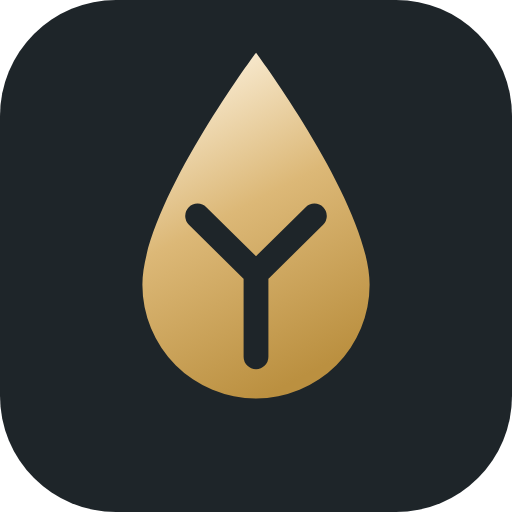
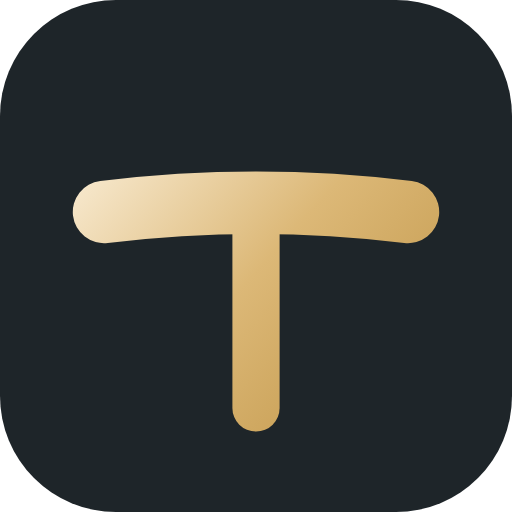
图标换图：从雨滴改为「T 型路口」
雨滴只说明「及时雨」这个 ID，说不出「人生重开」。改用横粗竖细的丁字路口：
横是走到 18 岁那条看得见的直路，竖是走进去的支路；
T 同时是 TimelyRain 的首字母，T-junction 就是丁字路口——一个形状两个意思。

- make-icons.mjs 抽出 MARKS.T / MARKS.Y 两套几何，改 MARK 一行切换
- 修 gradientUnits 坑：objectBoundingBox 在零宽竖笔上退化为空，整笔不渲染
- Y 岔路作为备选方案保留

Changed region(s): [[0.125, 0.0938, 0.875, 0.8438]]

diff --git a/图标设计说明.html b/图标设计说明.html
@@ -24,11 +24,10 @@
   .wrap { max-width: 1000px; margin: 0 auto; }
   .kicker { font-size: 11px; letter-spacing: 3px; color: var(--ink3); text-transform: uppercase; margin: 0 0 10px; }
   h1 { font-size: 27px; font-weight: 500; letter-spacing: 0.5px; margin: 0 0 8px; }
-  .lede { color: var(--ink2); font-size: 14px; margin: 0 0 40px; max-width: 620px; }
+  .lede { color: var(--ink2); font-size: 14px; margin: 0 0 40px; max-width: 640px; }
 
-  .hero { display: grid; grid-template-columns: 300px 1fr; gap: 40px; align-items: start; margin-bottom: 52px; }
+  .hero { display: grid; grid-template-columns: 300px 1fr; gap: 44px; align-items: start; margin-bottom: 48px; }
   @media (max-width: 760px) { .hero { grid-template-columns: 1fr; gap: 26px; } body { padding: 36px 20px 64px; } }
-
   .stage {
     background: linear-gradient(160deg, #f4efe4, #eae4d6);
     border-radius: 22px; padding: 34px; display: grid; place-items: center;
@@ -49,6 +48,18 @@
   h2 { font-size: 13px; letter-spacing: 2.5px; color: var(--ink3); font-weight: 500; margin: 0 0 18px; }
   section { margin-bottom: 50px; }
 
+  .ab { display: grid; grid-template-columns: 1fr 1fr; gap: 20px; }
+  @media (max-width: 720px) { .ab { grid-template-columns: 1fr; } }
+  .ab-card { background: var(--panel); border: 0.5px solid var(--line); border-radius: 18px; padding: 20px; }
+  .ab-card.pick { border-color: rgba(195,154,75,.45); box-shadow: 0 0 0 3px rgba(195,154,75,.07); }
+  .ab-top { display: flex; align-items: center; gap: 16px; margin-bottom: 14px; }
+  .ab-top svg, .ab-top img { width: 84px; height: 84px; border-radius: 20px; flex: 0 0 auto; }
+  .ab-title { font-size: 14.5px; font-weight: 500; }
+  .ab-sub { font-size: 11.5px; color: var(--ink3); letter-spacing: 0.5px; margin-top: 2px; }
+  .badge { display: inline-block; font-size: 10px; letter-spacing: 1px; color: var(--gold);
+    background: var(--gold-soft); border: 0.5px solid rgba(195,154,75,.32); border-radius: 999px; padding: 1px 8px; margin-left: 6px; vertical-align: 2px; }
+  .ab-card p { margin: 0; font-size: 13px; color: var(--ink2); line-height: 1.8; }
+
   .sizes { display: flex; align-items: flex-end; gap: 26px; flex-wrap: wrap; background: var(--panel);
     border: 0.5px solid var(--line); border-radius: 18px; padding: 26px 30px; }
   .sz { text-align: center; }
@@ -59,7 +70,6 @@
   .scene { background: var(--panel); border: 0.5px solid var(--line); border-radius: 18px; padding: 18px; }
   .scene > .cap { font-size: 11.5px; color: var(--ink3); letter-spacing: 1px; margin-bottom: 14px; }
 
-  /* Chrome 标签页 */
   .chrome { background: #dee1e6; border-radius: 10px 10px 0 0; padding: 8px 8px 0; display: flex; gap: 4px; }
   .tab { display: flex; align-items: center; gap: 8px; background: #fff; border-radius: 8px 8px 0 0;
     padding: 7px 12px; font-size: 11.5px; color: #3c4043; max-width: 190px; }
@@ -69,21 +79,19 @@
   .tabidle img { width: 13px; height: 13px; border-radius: 3px; }
   .chrome-bar { background: #fff; border-radius: 0 0 10px 10px; height: 26px; }
 
-  /* 书签栏 */
   .bm { background: #fff; border-radius: 10px; padding: 9px 12px; display: flex; align-items: center; gap: 16px;
     font-size: 11.5px; color: #3c4043; border: 0.5px solid #e2e5e9; }
   .bm span { display: flex; align-items: center; gap: 6px; }
   .bm img { width: 14px; height: 14px; border-radius: 3px; }
+  .bm .ph { width: 14px; height: 14px; border-radius: 3px; background: #c9cdd2; display: inline-block; }
 
-  /* iOS 主屏 */
   .spring { background: linear-gradient(165deg, #cfd9e2, #e7e2d6); border-radius: 14px; padding: 16px 14px; }
   .appgrid { display: grid; grid-template-columns: repeat(4, 1fr); gap: 12px 10px; }
   .app { text-align: center; }
   .app img { width: 44px; height: 44px; border-radius: 10px; box-shadow: 0 3px 8px rgba(0,0,0,.14); }
   .app .ph { width: 44px; height: 44px; border-radius: 10px; background: rgba(255,255,255,.55);
     box-shadow: inset 0 0 0 1px rgba(255,255,255,.7); margin: 0 auto; }
-  .bm .ph { width: 14px; height: 14px; border-radius: 3px; background: #c9cdd2; }
-  .app b { display: block; font-size: 8.5px; font-weight: 400; color: #2c3136; margin-top: 4px; letter-spacing: 0; }
+  .app b { display: block; font-size: 8.5px; font-weight: 400; color: #2c3136; margin-top: 4px; }
 
   .android { display: grid; place-items: center; background: linear-gradient(165deg,#dfe6ea,#efe9dc); border-radius: 14px; padding: 18px; }
   .android .circ { width: 96px; height: 96px; border-radius: 50%; overflow: hidden; box-shadow: 0 6px 16px rgba(0,0,0,.15); }
@@ -106,43 +114,78 @@
   .sw span { font-family: ui-monospace, monospace; font-size: 10.5px; color: var(--ink3); }
 
   .foot { margin-top: 44px; font-size: 11.5px; color: var(--ink3); }
+  .foot code { font-family: ui-monospace, monospace; background: #f2f6f8; padding: 1.5px 5px; border-radius: 4px; color: var(--brand); }
 </style>
 </head>
 <body>
 <svg width="0" height="0" style="position:absolute" aria-hidden="true"><defs>
-  <linearGradient id="drop" x1="0.18" y1="0" x2="0.52" y2="1">
-    <stop offset="0" stop-color="#fdf3e0"/><stop offset=".48" stop-color="#dcb877"/><stop offset="1" stop-color="#bb9040"/>
+  <linearGradient id="mark" gradientUnits="userSpaceOnUse" x1="10" y1="14" x2="54" y2="54">
+    <stop offset="0" stop-color="#fdf3e0"/><stop offset=".5" stop-color="#dcb877"/><stop offset="1" stop-color="#bf9445"/>
   </linearGradient>
-  <symbol id="mark" viewBox="0 0 64 64">
+  <symbol id="yMark" viewBox="0 0 64 64">
     <rect width="64" height="64" rx="14.5" fill="#1e2529"/>
-    <path d="M32 6.6c0 0 14.2 19 14.2 29a14.2 14.2 0 0 1-28.4 0c0-10 14.2-29 14.2-29Z" fill="url(#drop)"/>
-    <path d="M32 44.6V34.2M32 34.2 24.7 27M32 34.2 39.3 27" fill="none" stroke="#1e2529"
-      stroke-width="3.1" stroke-linecap="round" stroke-linejoin="round"/>
+    <g fill="none" stroke="url(#mark)" stroke-width="7" stroke-linecap="round" stroke-linejoin="round">
+      <path d="M32 52V35.5"/><path d="M32 35.5 22.8 17.5"/><path d="M32 35.5 41.2 19"/>
+    </g>
   </symbol>
 </defs></svg>
 
 <div class="wrap">
   <p class="kicker">Favicon / App Icon</p>
-  <h1>一滴雨里，一条岔路</h1>
-  <p class="lede">「及时雨」是雨，「人生重开」是岔路。把两件事压进一个 16×16 还认得出的形状里：一滴晨光色的雨，落下来时分成两条枝。</p>
+  <h1>一条大路，一条支路</h1>
+  <p class="lede">没画雨，也没画人物。画的是一个路口——游戏第一屏就是「18 岁那个岔路口」。而 T 这个形状，恰好也是 TimelyRain 的首字母；英文里 T-junction 就是丁字路口。</p>
 
   <div class="hero">
     <div class="stage"><img src="./public/icon-512.png" alt="图标 512px" /></div>
     <div class="notes">
       <div class="note"><div class="num">01</div><div>
-        <b>雨滴 = 及时雨</b>
-        <p>IP 是「及时雨」，符号就得是雨。滴形用了 14.2 的圆角半径撑出饱满的底，尖端收得比标准水滴更瘦，避免读成血滴或地图定位针。</p>
+        <b>横：那条大路</b>
+        <p>一条粗笔（7.8）横贯画面，中段微微起伏——不是尺子画的直线，是一条真的路。它代表走到 18 岁时那条看得见的直路。</p>
       </div></div>
       <div class="note"><div class="num">02</div><div>
-        <b>Y 形 = 人生的岔路</b>
-        <p>主干从滴底向上，在三分之一处分开两支——正是游戏里「18 岁那个岔路口」的样子。三笔都是圆头，读起来是树，不是剪刀。</p>
+        <b>竖：走进去的支路</b>
+        <p>明显更细（5.9），从横线下方垂直延伸出去。两条笔画的粗细差就是主次——路口的意义正在于「你走了哪条，哪条留在身后」。</p>
       </div></div>
       <div class="note"><div class="num">03</div><div>
-        <b>墨 + 晨光金 = 站点自己的色</b>
-        <p>底色取自正文色 <code>#1e2529</code>，雨滴是 <code>#fdf3e0 → #bb9040</code> 的三段渐变，和 h1 晨光、拼图渐变同一套。深底让它在浅色标签栏里先被看见，金滴在深色标签栏里也亮得住。</p>
+        <b>墨底 + 晨光金，和站点同一套色</b>
+        <p>底取正文色 <code>#1e2529</code>，笔画是 <code>#fdf3e0 → #bf9445</code> 的三段渐变，与 h1 晨光、拼图渐变同源。深底在浅色标签栏先被看见，金线在深色标签栏也亮得住。</p>
       </div></div>
     </div>
   </div>
+
+  <section>
+    <h2>为什么不再用雨滴</h2>
+    <p style="margin:-6px 0 18px;color:#5d6a72;font-size:13.5px;max-width:680px">
+      雨滴只能说明「及时雨」这个 ID，说不出「人生重开」这件事。而这个游戏的一切都从路口开始：18 岁、高考结束、四条岔路。用路口做图标，等于把游戏的第一屏压缩成了一个符号。T 又刚好是 IP 的首字母——一个形状，两个意思。
+    </p>
+  </section>
+
+  <section>
+    <h2>两个方案（B 是备选）</h2>
+    <div class="ab">
+      <div class="ab-card pick">
+        <div class="ab-top">
+          <img src="./public/icon-512.png" alt="" />
+          <div>
+            <div class="ab-title">A · T 型路口<span class="badge">已采用</span></div>
+            <div class="ab-sub">IP 首字母 + 丁字路口</div>
+          </div>
+        </div>
+        <p>横粗竖细，主次分明。既读得出「T」（TimelyRain），也读得出「一个路口」。两件事共用一笔，是这套方案最值钱的地方。</p>
+      </div>
+      <div class="ab-card">
+        <div class="ab-top">
+          <svg><use href="#yMark"/></svg>
+          <div>
+            <div class="ab-title">B · Y 岔路</div>
+            <div class="ab-sub">最直白的「选择」</div>
+          </div>
+        </div>
+        <p>一眼就是分岔，不需要解释。两枝角度略微不对称——总有一条是你没走的。缺点是它读起来还是更像一个字母 Y，和 IP 没关系。</p>
+      </div>
+    </div>
+    <p style="margin:14px 0 0;font-size:12.5px;color:#9aa4aa">换 B：把 <code style="font-family:ui-monospace,monospace">tools/make-icons.mjs</code> 里的 <code style="font-family:ui-monospace,monospace">MARK</code> 改成 <code style="font-family:ui-monospace,monospace">'Y'</code>，跑一次就重出全套。</p>
+  </section>
 
   <section>
     <h2>各尺寸实际效果</h2>
@@ -151,9 +194,9 @@
       <div class="sz"><img src="./public/icon-192.png" width="64" height="64" /><span>192</span></div>
       <div class="sz"><img src="./public/icon-180.png" width="48" height="48" /><span>180</span></div>
       <div class="sz"><img src="./public/icon-32.png" width="32" height="32" /><span>32</span></div>
-      <div class="sz"><img src="./public/icon-32.png" width="16" height="16" style="image-rendering:auto" /><span>16</span></div>
+      <div class="sz"><img src="./public/icon-32.png" width="16" height="16" /><span>16</span></div>
       <div class="sz" style="margin-left:auto;max-width:330px;text-align:left;color:#5d6a72;font-size:12.5px">
-        16px 是浏览器标签页的真实尺寸。这里刻意只保留「滴形 + 一级分叉」——试过两级树枝，16px 下会糊成一团墨点。
+        16px 是浏览器标签页的真实尺寸。两条笔画的粗细差在这里只剩半个像素，但「一横一竖」的骨架仍然成立——这正是当初否掉细线方案（雨滴溅开、两级树枝）的原因。
       </div>
     </div>
   </section>
@@ -174,8 +217,8 @@
         <div class="cap">书签栏</div>
         <div class="bm">
           <span><img src="./public/icon-32.png" alt="" />人生重开</span>
-          <span><i class="ph" style="width:14px;height:14px;border-radius:3px"></i>GitHub</span>
-          <span><i class="ph" style="width:14px;height:14px;border-radius:3px"></i>笔记</span>
+          <span><i class="ph"></i>GitHub</span>
+          <span><i class="ph"></i>笔记</span>
         </div>
         <div style="height:26px"></div>
       </div>
@@ -205,9 +248,9 @@
     <h2>配色</h2>
     <div class="swatches">
       <div class="sw"><i style="background:#1e2529"></i><div><b>墨底</b><span>#1e2529</span></div></div>
-      <div class="sw"><i style="background:#fdf3e0"></i><div><b>雨滴高光</b><span>#fdf3e0</span></div></div>
+      <div class="sw"><i style="background:#fdf3e0"></i><div><b>笔画高光</b><span>#fdf3e0</span></div></div>
       <div class="sw"><i style="background:#dcb877"></i><div><b>晨光金</b><span>#dcb877</span></div></div>
-      <div class="sw"><i style="background:#bb9040"></i><div><b>雨滴暗部</b><span>#bb9040</span></div></div>
+      <div class="sw"><i style="background:#bf9445"></i><div><b>笔画暗部</b><span>#bf9445</span></div></div>
     </div>
   </section>
 
@@ -227,7 +270,7 @@
     </table>
   </section>
 
-  <p class="foot">改色重出全套：<code style="font-family:ui-monospace,monospace">node tools/make-icons.mjs</code> —— 只需改脚本顶部 PALETTE 四个值。</p>
+  <p class="foot">改色或换图形重出全套：<code>node tools/make-icons.mjs</code> —— 顶部 PALETTE 改四个色值，MARK 改 <code>'T'</code> / <code>'Y'</code>。</p>
 </div>
 </body>
 </html>

diff --git a/开发需求文档.md b/开发需求文档.md
@@ -5,9 +5,9 @@
 | 产品名称 | 及时雨 · 人生重开（HowToLiveBetter: Life Restart） |
 | 命名定稿 | 主名「及时雨 · 人生重开」，副名「人生重开模拟器」，出品行「TR及时雨 · AI Timely Rain」。取自「好雨知时节，当春乃发生」——循证建议如及时雨，落在恰当时机；名字不露「雨」字，雨意全在 |
 | 参赛项目 | WorkBuddy「1024 造物挑战」程序员节应用创作大赛 |
-| 文档版本 | v2.4 |
-| 日期 | 2026-10-22（v2.4 更新于 2026-10-23） |
-| 状态 | 已定稿 v2.4（新增品牌图标体系 favicon / PWA / iOS；见 §3.2 F25） |
+| 文档版本 | v2.5 |
+| 日期 | 2026-10-22（v2.5 更新于 2026-10-23） |
+| 状态 | 已定稿 v2.5（品牌图标改为「T 型路口」；见 §3.2 F25） |
 | 产品品牌 | TR及时雨 · AI Timely Rain（个人 IP 融入开局主视觉/结算/页脚三处） |
 | 开发窗口 | 2026-10-22 ～ 2026-11-01（10 天，11 月 1 日 23:59 截稿） |
 | 内容底料 | 《高性价比人生指南》（CC BY 4.0，可改编商用，须署名+附许可证链接+注明修改） |
@@ -267,7 +267,7 @@
   - v2.1 起存档 key 从 `life-restart-save-v1` 改为不带版本号的 `life-restart-save`：结构版本只写在存档内容的 `version` 字段里（`SAVE_VERSION`），避免「key 叫 v1、内容已是第 4 版」的错位；`loadState` 读不到新 key 时会自动把老 key 的存档搬过来删掉，进行中的一局不受影响。档案 key 保持 `-v1` 不动——那是用户的资产，换 key 等于让老记录凭空消失。
 - F23 代码审查修复（v2.1）：对外部审查提出的 1 高 / 3 中 / 5 低逐条落地。① `applyOption` 的 `delta` 少了 `time` / `energy` 两个键，数据里 28 个选项的时间与精力成本被静默丢弃（`chipText` / `ATTR_LABEL` / `ATTR_ICON` 里为它们准备的分支永远走不到）——补齐后结果弹窗如实展示「时间 花掉 4 年」「精力 耗去 30」，用中性灰 chip（`chip-cost`：代价不分好坏，不冒充涨跌），这两项不进 `attrs`（写入循环只遍历 `ATTR_KEYS`），存档结构不变。② 分享卡生成失败不再静默 `return`：弹出「卡片没生成出来」+ 具体原因 + 「可以先截图这一页」的替代路径，遮罩加深；按钮不会卡在「正在生成…」。③ 导入备份按**白名单**消毒（只留已知字段、字符串截断、数字强转、分数夹到 0–100、`badges` 只收字符串），渲染层再套一层 HTML 转义，两处入口都堵上 XSS。④ 首屏三处「17 岁」统一改「18 岁」（与实际首关一致）：`description` 与两个视角的 `sub`。⑤ 删掉结算页恒为 false 的「开发中 D3 进度」banner 及其传参、`TOTAL_DECISIONS`。⑥ `drawMoments` 按剩余空间决定画几站（行距 148、末站高 98，底线是脚注上方 24px），装不下就少画一站并保留首尾，避免长金句 + 三枚徽章时压到脚注。⑦ 删 `window.__sharePayload` 调试全局。⑧ `achievementState` 改为单趟递推（不再每局复制档案、重建一遍 Set），「我的」页复用同一份结果，200 条档案下渲染 289ms。⑨ 顺手清掉 `continueGame` / `backHome` / `onHome` 里各粘了一段的音频解锁监听（末尾已统一注册一次）。
 - F24 首次进站引导（v2.2 起，v2.3 改为聚光灯式，`src/guide.js`）：第一次打开站点、开场动画撤幕后自动开始。**不是一张介绍卡，而是把高亮框依次打到页面上真实存在的地方**：① 首屏居中卡交代这是什么（18 岁起步、24 个抉择、约十分钟）② `.views` 选视角（这一步洞里可点，能当场换一个视角试试）③ `.sub` 这段话会跟着视角换 ④ `.streams` 选活法（权重 ×1.5）⑤ `.me-strip` 记录条入口 ⑥ 末屏居中卡（55 岁结算、8 块拼图）收尾。实现：`<svg>` 用 `fill-rule="evenodd"` 的 path 画「外框 + 圆角洞」当暗层（**只负责变暗，`pointer-events: none`**）；命中拦截不用这个洞——**Chrome 不认 evenodd 的洞，整块 path 都会吃点击**（踩过），改成围着洞铺 4 条透明矩形 `i` 来挡，洞内才是真的空的。金框 `.tour-ring` 与说明卡 `.tour-card` 都按目标的 `getBoundingClientRect()` 现算：卡片优先放下方、放不下放上方（带小尖角指向目标），上下都放不下就贴屏幕底并在压到框时收起尖角；`scroll`/`resize` 时 rAF 节流重算，滚动时框跟着元素走。高块（活法区三张卡）先 `scrollIntoView({block:'start'})` 顶到上方，把下面整块让给说明卡。看没看过记在 `life-restart-guide-v2`（跳过也算），主页左上「玩法」按钮与「我的」页底部可随时重看（不在主页时会先回主页再引导）。`Esc` 关闭、`←/→/Enter` 翻步、点遮罩不关闭。
-- F25 品牌图标（v2.4 新增，`public/` 全套 + `tools/make-icons.mjs` 生成器）：站点此前没有 favicon，标签页是空白页图标。设计取「一滴雨里的岔路」——「及时雨」是雨，「人生重开」是岔路，把两件事压进一个 16×16 还认得出的形状：圆角方形墨底（`#1e2529`，与正文字色同源）+ 三段渐变雨滴（`#fdf3e0 → #dcb877 → #bb9040`）+ 滴内 Y 形分叉（即 18 岁那个路口，三笔圆头，读作树而非剪刀）。**刻意只画一级分叉**：试过两级树枝，16px 下糊成一团墨点（对照试验见 `tools/make-icons.mjs` 注释）。产出 `icon.svg`（矢量，现代浏览器首选）/ `favicon.ico`（16·32·48 三帧，手写 ICO 封装 PNG）/ `apple-touch-icon.png`（180，满出血不透明，让 iOS 自己裁圆角，避免双层圆角）/ `icon-192·512.png`（PWA）/ `icon-maskable-512.png`（内容收在中间 80% 安全区）/ `safari-pinned-tab.svg`（单色，mask 挖空 Y 形）/ `manifest.webmanifest`（display standalone）。全部路径写成 `./` 相对形式，GitHub Pages 子路径下实测解析正确（`/Start-a-new-life/icon.svg`、manifest 的 `start_url` 与四个 icons 均落在子目录内）。改色重出：只改 `tools/make-icons.mjs` 顶部的 PALETTE，跑 `node tools/make-icons.mjs`（依赖 chromium 栅格化）。
+- F25 品牌图标（v2.4 新增，v2.5 换图，`public/` 全套 + `tools/make-icons.mjs` 生成器）：站点此前没有 favicon，标签页是空白页图标。**图形是「T 型路口」**——横笔（粗 7.8，中段微拱，像一条真的路）是走到 18 岁时那条看得见的直路，竖笔（细 5.9）是从路口走进去的支路；粗细差即主次，路口的意义就是「你走了哪条，哪条留在身后」。选它的关键：**T 同时是 TimelyRain 的首字母，英文里 T-junction 就是丁字路口，一个形状两个意思**；而游戏第一屏正是「18 岁那个岔路口」，用路口做图标等于把开场压缩成符号。（v2.4 首版画的是「一滴雨里的岔路」，但雨滴只说明 IP、说不出「人生重开」，故换掉；备选方案 B「Y 岔路」保留在 `MARKS.Y`，改 `MARK` 一行即可切换。）配色：墨底 `#1e2529`（与正文同源）+ 笔画三段渐变 `#fdf3e0 → #dcb877 → #bf9445`。产出 `icon.svg`（矢量）/ `favicon.ico`（16·32·48 三帧，手写 ICO 封装 PNG）/ `apple-touch-icon.png`（180，满出血不透明，让 iOS 自己裁圆角）/ `icon-192·512.png` / `icon-maskable-512.png`（内容收在中间 80% 安全区）/ `safari-pinned-tab.svg`（单色，渐变替换为纯黑）/ `manifest.webmanifest`（standalone）。**踩坑**：渐变的 `gradientUnits` 默认是 objectBoundingBox，竖直笔的 bbox 宽度为 0 会让渐变退化、整笔不渲染——必须改 `userSpaceOnUse`（第一版三条竖笔全消失）。图标引用全部写成 `./` 相对形式，GitHub Pages 子路径下实测解析正确。
 - F19 打字机音效（v1.8 已实现，`src/sound.js`）：旁白逐字流出时每 42ms 至多一声「嗒」，Web Audio 现场合成（带通噪声 = 按键脆响 + 150Hz 三角波短包络 = 木质感），滤波中心频率与音量每次随机，避免电子节拍器感；**不加载任何音频文件**。首次点击/触摸/按键时 `unlock()` 打开 AudioContext（浏览器自动播放策略）；开关状态存 `localStorage`（`life-restart-sound-v1`），关掉时连节点都不创建；`prefers-reduced-motion` 下旁白直接显示、自然没有音效
 
 ### 3.3 P2（明确不做）
@@ -547,6 +547,7 @@
 
 | 版本 | 日期 | 变更 |
 |---|---|---|
+| v2.5 | 2026-10-23 | **图标换图为「T 型路口」**（F25 改版）：雨滴只说明 IP、说不出「人生重开」；改为横粗竖细的丁字路口，T 兼作 TimelyRain 首字母，与游戏开场「18 岁岔路口」直接对应。`make-icons.mjs` 抽出 MARKS.T / MARKS.Y 两套几何，改 MARK 一行可切换。修掉渐变 objectBoundingBox 在零宽竖笔上退化导致整笔不渲染的坑。子路径下 9 个资源全部 200，0 报错 |
 | v2.4 | 2026-10-23 | **品牌图标体系（F25）**：新增「一滴雨里的岔路」图标，产出 SVG favicon + 三帧 ICO + iOS 满出血版 + PWA 192/512 + maskable + Safari 单色 + manifest。刻意只保留一级分叉——两级树枝在 16px 下糊成墨点。图标引用全部走 `./` 相对路径，GitHub Pages 子路径下 favicon 与 manifest 解析实测正确；dev 与生产构建均 0 个 404、0 条 console 报错。构建 23 模块 / CSS 27.97kB / JS 88.88kB（gzip 43.69kB） |
 | v2.3 | 2026-10-23 | **引导改成聚光灯式（F24 重做）**：不再是一张介绍卡，而是首屏交代 + 高亮框依次套住页面真实元素（视角按钮 → 视角说明 → 活法 → 记录条）+ 末屏收尾。遮罩用 SVG evenodd 挖洞只做视觉，命中拦截另铺 4 条透明矩形（Chrome 不认 evenodd 的洞，path 会连洞内一起挡）。说明卡按目标的实时位置放下方/上方/贴底，带指向尖角，滚动时跟随。高块先顶到页面上方把空间让给卡片。看过标记升级到 `life-restart-guide-v2`。24 项验收全过，320/360/390 三档无溢出，console 0 报错 |
 | v2.2 | 2026-10-23 | **首次进站引导（F24）**：新增 `src/guide.js`，开场动画撤幕后自动弹 4 步玩法引导（这是一次重开 / 先选视角再选活法 / 选完才知道代价 / 结局是走出来的），圆点 + 上一步下一步 + 末步「开始这一生」，`Esc` 与 `←/→/Enter` 可用，点遮罩不关闭。`life-restart-guide-v1` 记「看过」，跳过也算；主页左上「玩法」按钮与「我的」页底部可随时重看。焦点落在卡片上（避免程序化聚焦按钮带出 UA 黑描边）。320/360/390 三档宽度不溢出，21 项验收全通过，console 0 报错 |
